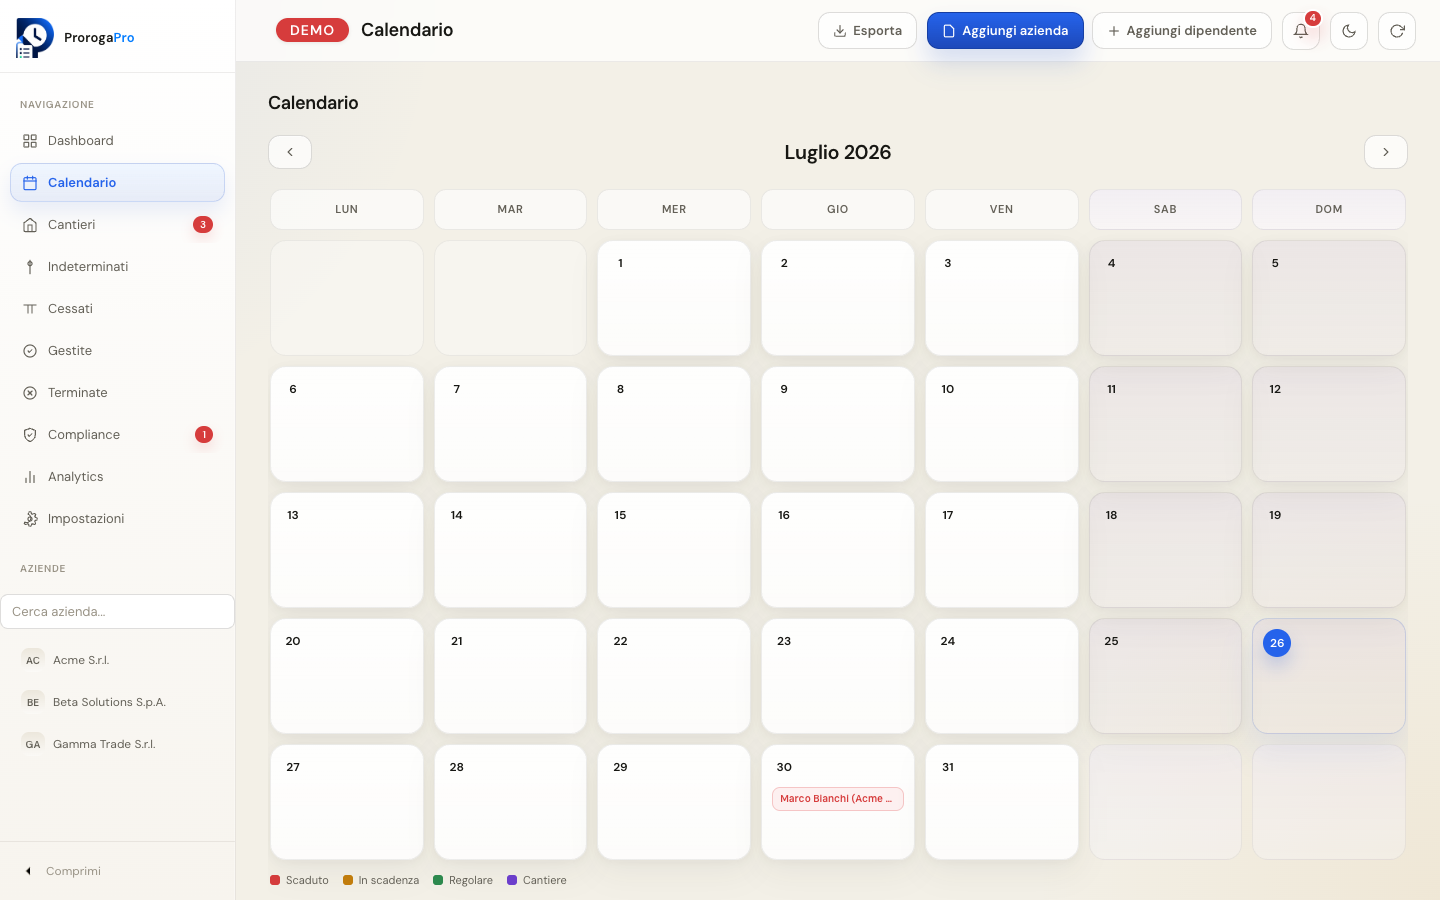
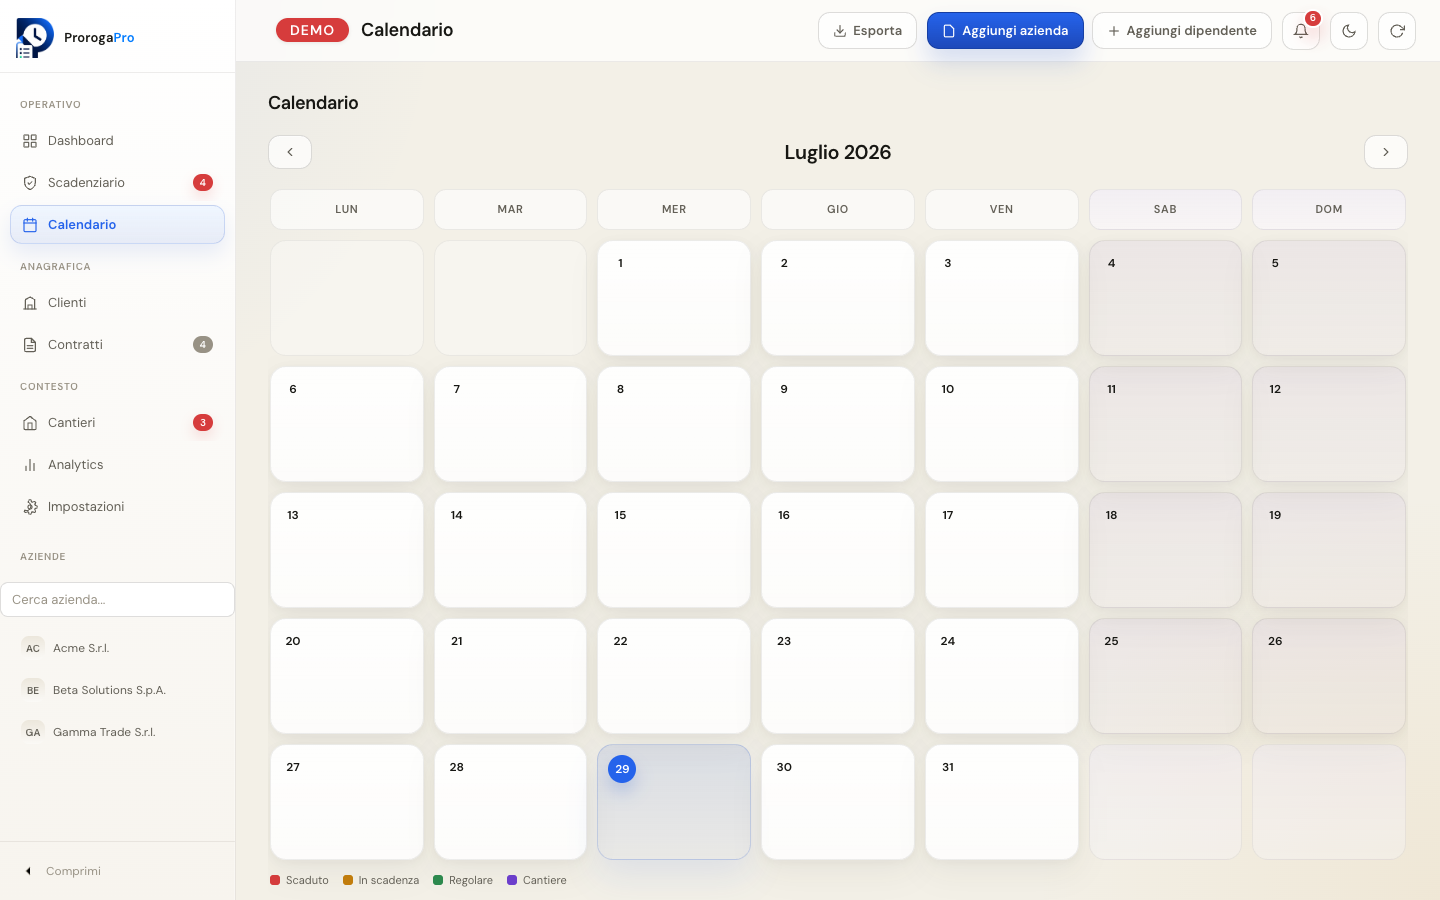
Refresh landing screenshots and copy for redesigned UX.
Sync updated screenshots and landing text with SaaS cockpit, clienti, and scadenziario improvements.

diff --git a/index.html b/index.html
@@ -6,7 +6,7 @@
   <title>ProrogaPro — Scadenze, proroghe e compliance contrattuale</title>
   <meta name="description" content="ProrogaPro è la piattaforma per PMI e studi professionali che gestiscono scadenze contrattuali, proroghe, cantieri e adempimenti UNILAV con alert intelligenti e export operativi.">
   <meta property="og:title" content="ProrogaPro — Scadenze e proroghe contrattuali">
-  <meta property="og:description" content="Dashboard, compliance normativa, calendario scadenze e analytics. Prova la demo interattiva.">
+  <meta property="og:description" content="Dashboard cockpit, scadenziario UNILAV, portfolio clienti e analytics. Prova la demo interattiva.">
   <meta property="og:type" content="website">
   <meta property="og:image" content="assets/screenshots/dashboard.png">
   <link rel="preconnect" href="https://fonts.googleapis.com">
@@ -27,7 +27,7 @@
       <nav class="nav-links" aria-label="Navigazione principale">
         <a href="#destinatari" class="hide-mobile">A chi è destinata</a>
         <a href="#funzionalita" class="hide-mobile">Funzionalità</a>
-        <a href="#compliance" class="hide-mobile">Compliance</a>
+        <a href="#compliance" class="hide-mobile">Scadenziario</a>
         <a href="#come-funziona" class="hide-mobile">Come funziona</a>
         <a class="btn btn-ghost hide-mobile" href="contract_manager_dashboard.html">Demo live</a>
         <a class="btn btn-primary" href="contract_manager_dashboard.html">Prova gratis</a>
@@ -57,8 +57,8 @@
         </div>
         <div class="hero-visual">
           <figure class="screen-frame">
-            <img src="assets/screenshots/dashboard.png" width="1440" height="900" alt="Dashboard ProrogaPro con contratti in scadenza, metriche e alert urgenti">
-            <figcaption class="screen-caption">Screenshot reale — Dashboard operativa con alert scadenze e contratti prorogabili</figcaption>
+            <img src="assets/screenshots/dashboard.png" width="1440" height="900" alt="Dashboard cockpit ProrogaPro con priorità operative e piano settimanale studio">
+            <figcaption class="screen-caption">Screenshot reale — Cockpit operativo con KPI, piano settimanale e contratti critici</figcaption>
           </figure>
         </div>
       </div>
@@ -121,21 +121,37 @@
 
         <div class="feature-block">
           <div class="feature-copy">
-            <h3>Dashboard e priorità immediate</h3>
-            <p>Vedi subito cosa scade, cosa è urgente e quali contratti sono prorogabili. Metriche, barre di avanzamento e badge di stato ti guidano nelle azioni del giorno.</p>
+            <h3>Dashboard cockpit e priorità immediate</h3>
+            <p>Apri ProrogaPro e vedi subito cosa fare oggi: KPI essenziali, piano settimanale studio e solo i contratti critici — con un click passi all'elenco completo.</p>
             <ul class="feature-list">
-              <li>Alert configurabili (60, 30, 15, 7, 3, 1 giorni)</li>
-              <li>Proroga rapida con verifica causale integrata</li>
-              <li>Ricerca per dipendente, azienda o tipo contratto</li>
+              <li>Cockpit con scaduti, scadenze 7 gg e adempimenti</li>
+              <li>Piano settimanale con azione rapida “Fatto”</li>
+              <li>Card compatte: Modifica, Proroga, Email + menu azioni</li>
               <li>Centro notifiche con scadenze contratti e cantieri</li>
             </ul>
           </div>
           <figure class="screen-frame">
-            <img src="assets/screenshots/dashboard.png" loading="lazy" alt="Schermata dashboard ProrogaPro">
+            <img src="assets/screenshots/dashboard.png" loading="lazy" alt="Schermata dashboard cockpit ProrogaPro">
           </figure>
         </div>
 
         <div class="feature-block reverse">
+          <div class="feature-copy">
+            <h3>Portfolio clienti e contratti unificati</h3>
+            <p>Per studi e consulenti: vista per azienda con report settimanale PDF, elenco contratti con filtri per stato e navigazione organizzata per aree.</p>
+            <ul class="feature-list">
+              <li>Portfolio clienti con priorità e criticità</li>
+              <li>Report scadenze settimanale export PDF</li>
+              <li>Filtri contratto: Tutti, Da gestire, Gestite, T.I.</li>
+              <li>Sidebar: Operativo · Anagrafica · Contesto</li>
+            </ul>
+          </div>
+          <figure class="screen-frame">
+            <img src="assets/screenshots/clienti.png" loading="lazy" alt="Portfolio clienti ProrogaPro">
+          </figure>
+        </div>
+
+        <div class="feature-block">
           <div class="feature-copy">
             <h3>Calendario e pianificazione</h3>
             <p>Distribuisci le scadenze nel tempo e pianifica rinnovi, disdette e comunicazioni con una vista mensile chiara.</p>
@@ -185,20 +201,20 @@
     <section id="compliance">
       <div class="container">
         <div class="section-head">
-          <p class="kicker">Compliance</p>
+          <p class="kicker">Scadenziario</p>
           <h2>Regole, causali e UNILAV sotto controllo</h2>
-          <p>Il modulo compliance traduce la normativa operativa in checklist e alert — non sostituisce il parere legale, ma evita dimenticanze costose.</p>
+          <p>Lo scadenziario unificato traduce la normativa operativa in checklist e alert — con filtri per urgenza (Oggi, 7 giorni, Scaduti) e tipologia (UNILAV, studio e contratto).</p>
         </div>
 
         <div class="feature-block">
           <div class="feature-copy">
-            <h3>Registro adempimenti e verifica legale</h3>
-            <p>ProrogaPro controlla limiti di durata, numero proroghe, causali art. 19 e crea automaticamente task UNILAV entro 5 giorni da proroga, rinnovo o cessazione.</p>
+            <h3>Registro adempimenti con tab intelligenti</h3>
+            <p>ProrogaPro controlla limiti di durata, numero proroghe, causali art. 19 e crea automaticamente task UNILAV, scadenze prova, disdetta e permessi di soggiorno.</p>
             <ul class="feature-list">
-              <li>Categorie: TD, apprendistato, appalti PA/privati, forniture B2B</li>
-              <li>Stop-and-go tra contratto e proroga</li>
-              <li>Banner causale TOP fino al 31/12/2026</li>
-              <li>Export dossier proroga PDF e CSV compliance</li>
+              <li>Tab Quando: Tutti · Oggi · 7 giorni · Scaduti</li>
+              <li>Tab Tipo: UNILAV · Studio &amp; contratto</li>
+              <li>Stop-and-go, causali TOP, appalti PA</li>
+              <li>Export dossier proroga PDF e CSV scadenziario</li>
             </ul>
             <div class="pill-row">
               <span class="pill">Art. 19 D.Lgs. 81/2015</span>
@@ -207,8 +223,8 @@
             </div>
           </div>
           <figure class="screen-frame">
-            <img src="assets/screenshots/compliance.png" loading="lazy" alt="Pagina compliance con adempimenti UNILAV e registro scadenze">
-            <figcaption class="screen-caption">Screenshot reale — Registro compliance con adempimenti in sospeso</figcaption>
+            <img src="assets/screenshots/compliance.png" loading="lazy" alt="Scadenziario ProrogaPro con filtri UNILAV e adempimenti studio">
+            <figcaption class="screen-caption">Screenshot reale — Scadenziario con filtri per urgenza e tipologia adempimento</figcaption>
           </figure>
         </div>
       </div>

diff --git a/scripts/capture_screenshots.js b/scripts/capture_screenshots.js
@@ -8,8 +8,18 @@ const BASE = process.argv[2] || 'http://127.0.0.1:8766/contract_manager_dashboar
 const OUT = path.resolve(__dirname, '../assets/screenshots');
 
 const shots = [
-  { file: 'dashboard.png', setup: null },
-  { file: 'compliance.png', setup: () => window.setPage('compliance') },
+  { file: 'dashboard.png', setup: () => window.setPage('dashboard') },
+  { file: 'clienti.png', setup: () => window.setPage('clienti') },
+  { file: 'contratti.png', setup: () => window.setPage('contratti') },
+  {
+    file: 'compliance.png',
+    setup: () => {
+      window.setPage('compliance');
+      if (typeof window.setComplianceCategoryFilter === 'function') {
+        window.setComplianceCategoryFilter('unilav');
+      }
+    },
+  },
   { file: 'calendar.png', setup: () => window.setPage('calendar') },
   { file: 'analytics.png', setup: () => window.setPage('analytics') },
   { file: 'cantieri.png', setup: () => window.setPage('cantieri') },
@@ -29,7 +39,7 @@ const shots = [
   for (const s of shots) {
     if (s.setup) {
       await page.evaluate(s.setup);
-      await page.waitForTimeout(1200);
+      await page.waitForTimeout(1400);
     }
     await page.screenshot({ path: path.join(OUT, s.file), fullPage: false });
     console.log('Saved', s.file);
